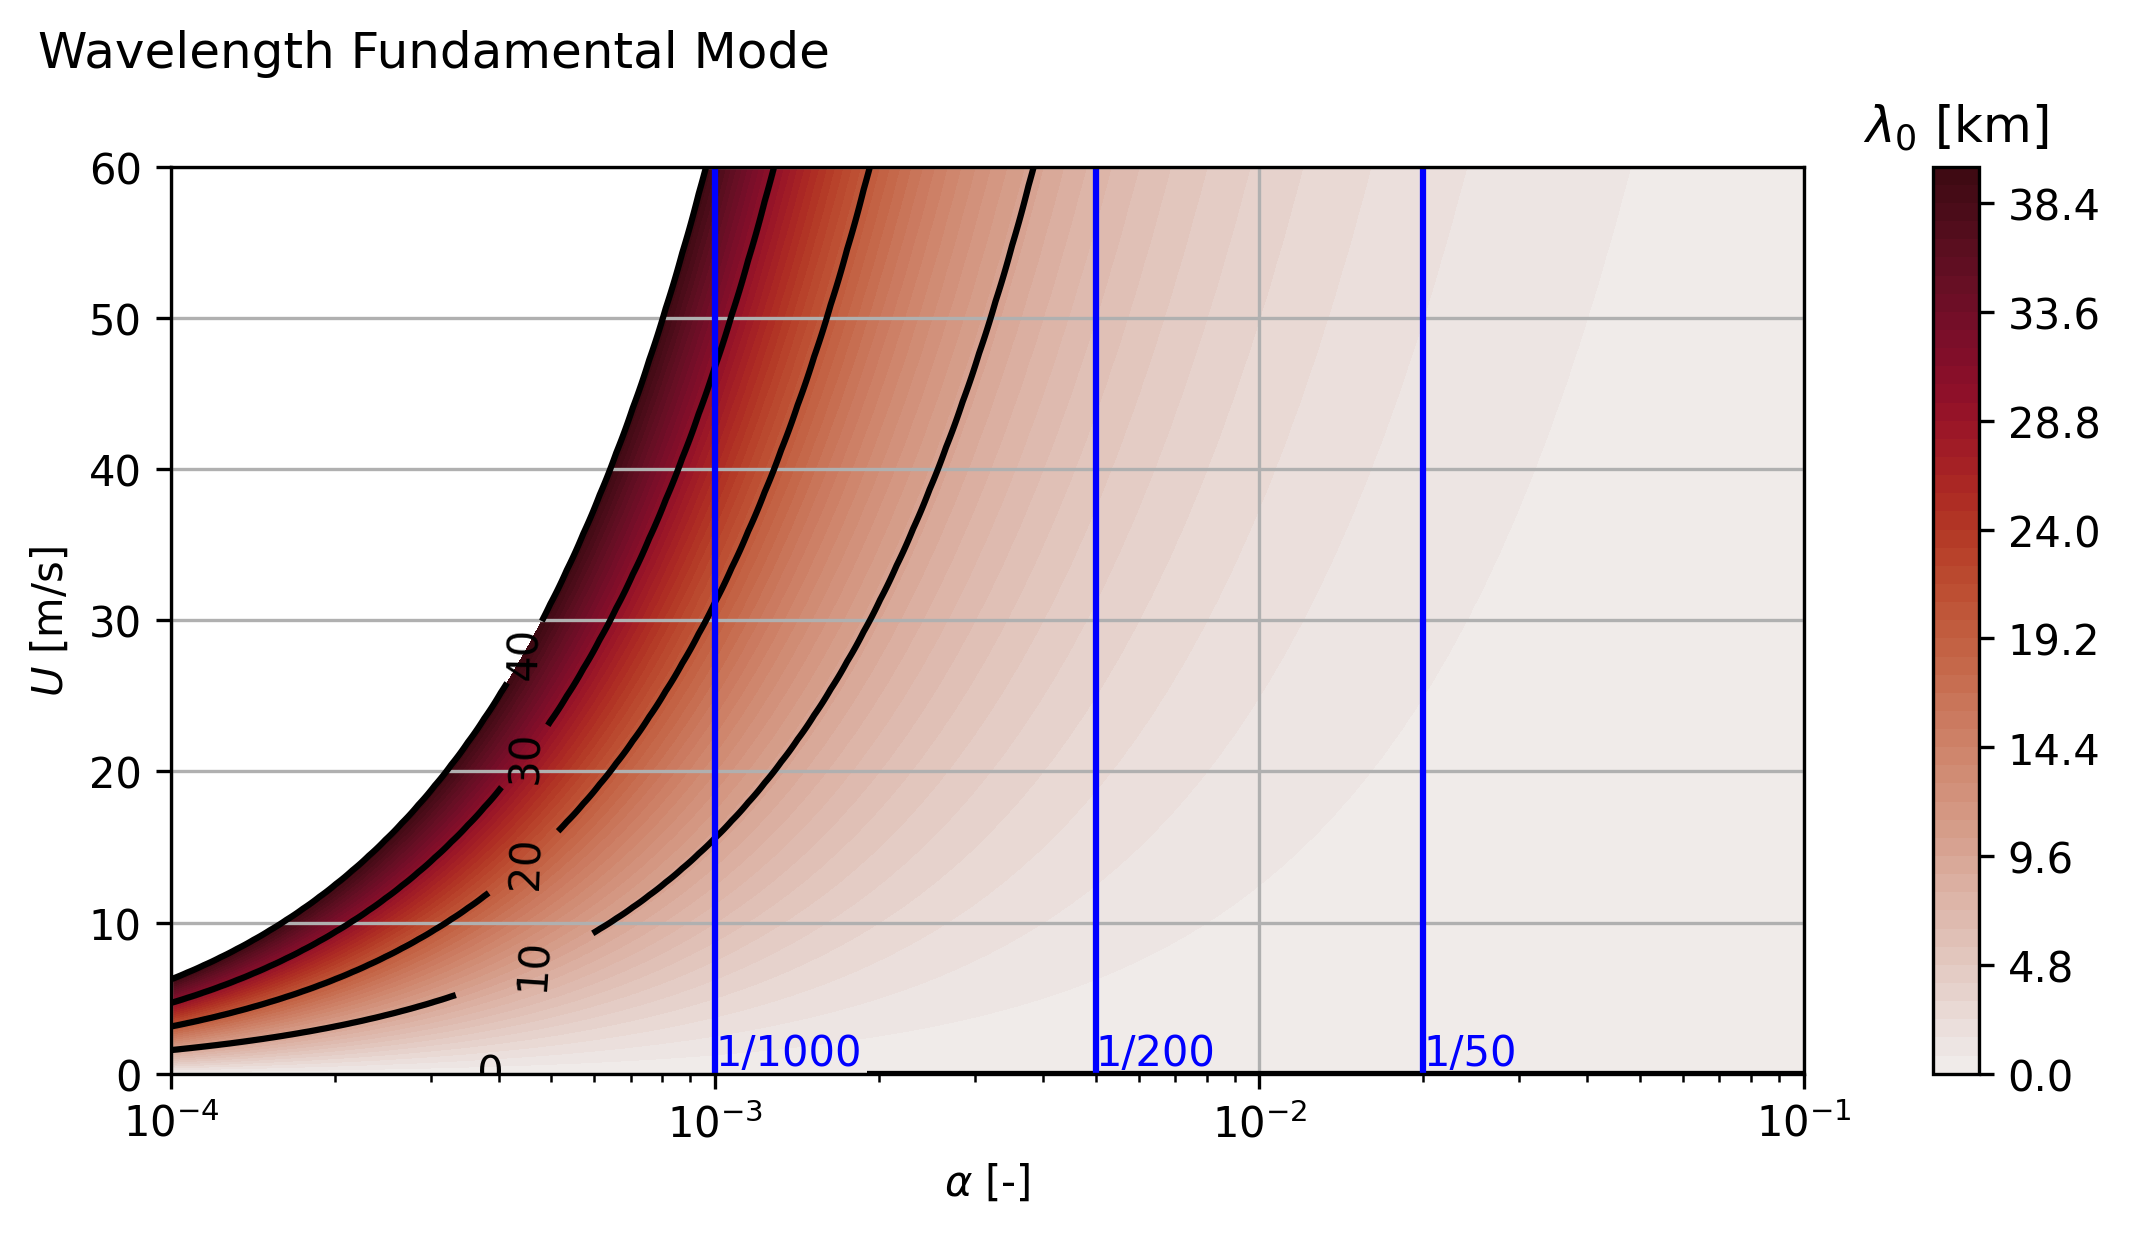
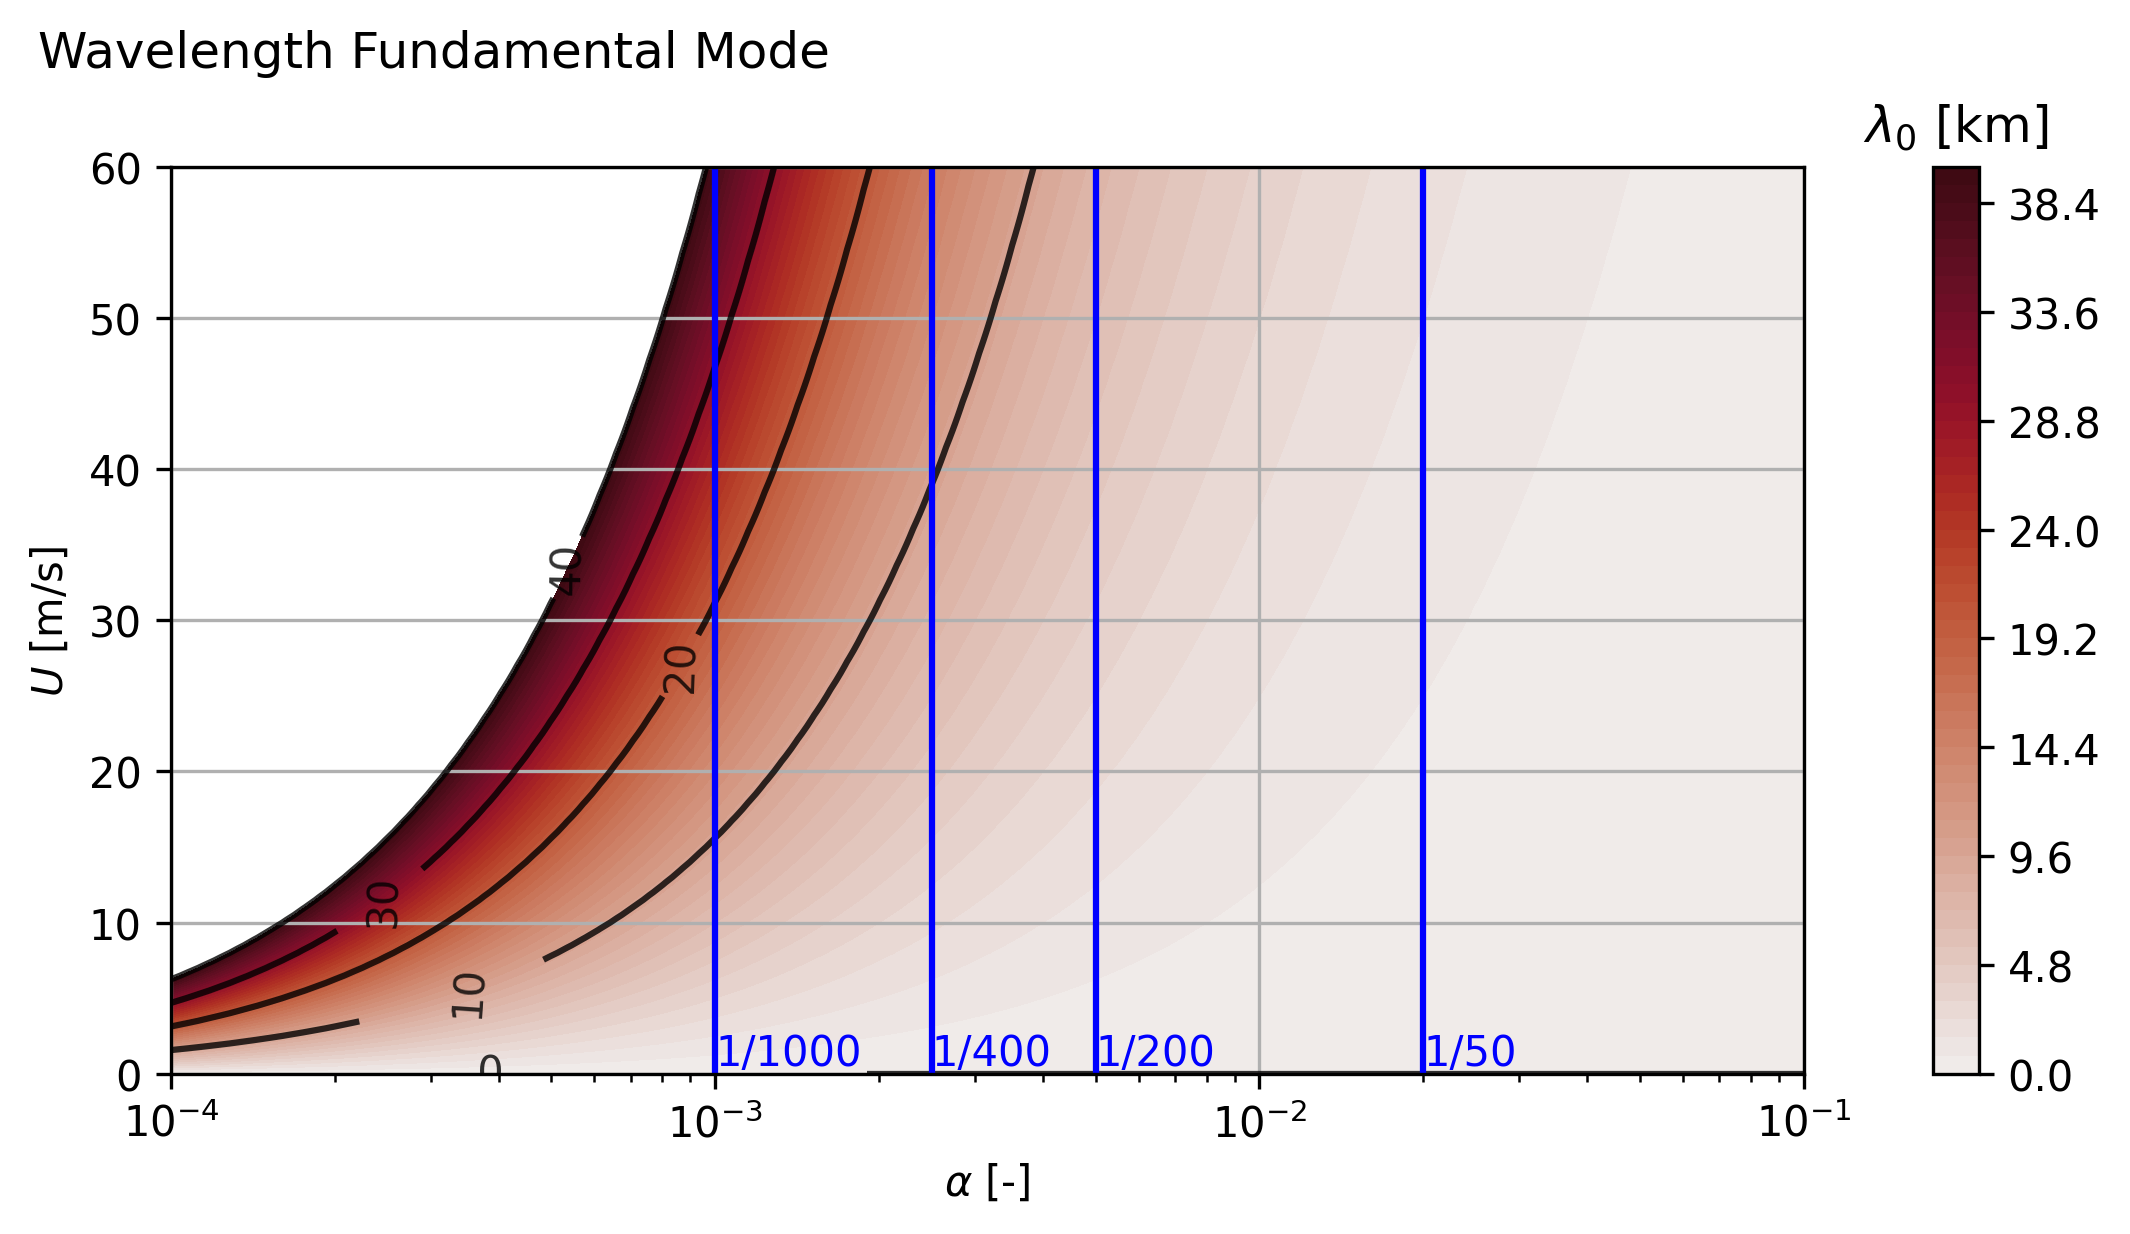
update formatting

diff --git a/theory/theory_part2.py b/theory/theory_part2.py
@@ -17,9 +17,11 @@ import functions.theory as ft
 # fmt: on
 
 
-### Critical Velocity
-def theory_figure_speed_vs_size_alpha(a: npt.ArrayLike, alpha: npt.ArrayLike, savename: str=None) -> None:
-    """ Plots the relation between critical wave velocity and pressure disturbance size and the slope of a flat sloped bottom topography
+# Critical Velocity
+def theory_figure_speed_vs_size_alpha(
+    a: npt.ArrayLike, alpha: npt.ArrayLike, savename: str = None
+) -> None:
+    """Plots the relation between critical wave velocity and pressure disturbance size and the slope of a flat sloped bottom topography
 
     Input:
         `a`:        array with pressure disturbance size
@@ -43,17 +45,30 @@ def theory_figure_speed_vs_size_alpha(a: npt.ArrayLike, alpha: npt.ArrayLike, sa
     fig.set_layout_engine("compressed")
     fig.suptitle("Critical Velocity", va="top", ha="left", x=0.01)
 
-    cl = plt.contour(alpha, a/1e3, Ucr, levels=np.arange(U.min(), U.max()+10, 10), colors="black")
+    cl = plt.contour(
+        alpha,
+        a / 1e3,
+        Ucr,
+        levels=np.arange(U.min(), U.max() + 10, 10),
+        colors="black",
+        alpha=0.8,
+    )
     plt.clabel(cl, fmt="%2.0f")
-    plt.contourf(alpha, a/1e3, Ucr, levels=U, cmap=cmo.cm.speed)
+    plt.contourf(alpha, a / 1e3, Ucr, levels=U, cmap=cmo.cm.speed)
     cb = plt.colorbar()
     cb.ax.set_title("$U_{cr}$ [m/s]")
     plt.xlabel("$\\alpha$ [-]")
     plt.ylabel("$a$ [km]")
     plt.grid()
     plt.xscale("log")
-    for _angle in [1/50, 1/200, 1/1000]:
-        plt.text(_angle, 0.01, f"1/{1/_angle:0.0f}", color="red", transform=plt.gca().get_xaxis_transform())
+    for _angle in [1 / 50, 1 / 400, 1 / 200, 1 / 1000]:
+        plt.text(
+            _angle,
+            0.01,
+            f"1/{1/_angle:0.0f}",
+            color="red",
+            transform=plt.gca().get_xaxis_transform(),
+        )
         plt.axvline(_angle, color="red")
     fig.get_layout_engine().execute(fig)
     fig.savefig(
@@ -67,9 +82,11 @@ def theory_figure_speed_vs_size_alpha(a: npt.ArrayLike, alpha: npt.ArrayLike, sa
     return
 
 
-### Wavelength fundamental mode
-def theory_figure_wavelength_vs_alpha_speed(alpha: npt.ArrayLike, velocity: npt.ArrayLike, savename: str=None) -> None:
-    """ Plots the relation between wavelength and bottom slope and pressure disturbance velocity
+# Wavelength fundamental mode
+def theory_figure_wavelength_vs_alpha_speed(
+    alpha: npt.ArrayLike, velocity: npt.ArrayLike, savename: str = None
+) -> None:
+    """Plots the relation between wavelength and bottom slope and pressure disturbance velocity
 
     Input:
         `alpha`:    array with bottom slope
@@ -93,17 +110,36 @@ def theory_figure_wavelength_vs_alpha_speed(alpha: npt.ArrayLike, velocity: npt.
     fig.set_layout_engine("compressed")
     fig.suptitle("Wavelength Fundamental Mode", va="top", ha="left", x=0.01)
 
-    cl = plt.contour(alpha, velocity, wavelength/1e3, levels=np.arange(0, 4e4+10, 1e4)/1e3, colors="black")
+    cl = plt.contour(
+        alpha,
+        velocity,
+        wavelength / 1e3,
+        levels=np.arange(0, 4e4 + 10, 1e4) / 1e3,
+        colors="black",
+        alpha=0.8,
+    )
     plt.clabel(cl, fmt="%2.0f")
-    plt.contourf(alpha, velocity, wavelength/1e3, levels=np.linspace(0, 40000, 51)/1e3, cmap=cmo.cm.amp)
+    plt.contourf(
+        alpha,
+        velocity,
+        wavelength / 1e3,
+        levels=np.linspace(0, 40000, 51) / 1e3,
+        cmap=cmo.cm.amp,
+    )
     cb = plt.colorbar()
     cb.ax.set_title("$\\lambda_0$ [km]")
     plt.xlabel("$\\alpha$ [-]")
     plt.ylabel("$U$ [m/s]")
     plt.grid()
     plt.xscale("log")
-    for _angle in [1/50, 1/200, 1/1000]:
-        plt.text(_angle, 0.01, f"1/{1/_angle:0.0f}", color="blue", transform=plt.gca().get_xaxis_transform())
+    for _angle in [1 / 50, 1 / 400, 1 / 200, 1 / 1000]:
+        plt.text(
+            _angle,
+            0.01,
+            f"1/{1/_angle:0.0f}",
+            color="blue",
+            transform=plt.gca().get_xaxis_transform(),
+        )
         plt.axvline(_angle, color="blue")
     fig.get_layout_engine().execute(fig)
     plt.savefig(
@@ -128,7 +164,7 @@ if __name__ == "__main__":
     a = np.geomspace(1, 301, 100) * 1e3
     # alpha = 1. / np.logspace(1.5, 3.1, 100)
     alpha = np.geomspace(1e-4, 1e-1, 100)
-    U = np.arange(0, 60+0.1, 0.5)
+    U = np.arange(0, 60 + 0.1, 0.5)
 
     # Figures
     theory_figure_speed_vs_size_alpha(a, alpha)
